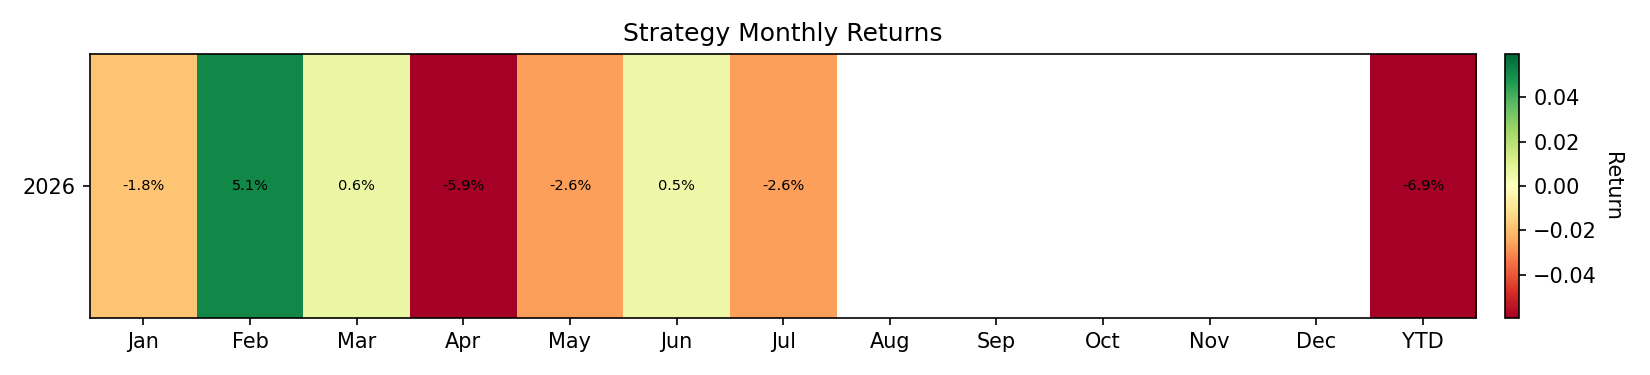
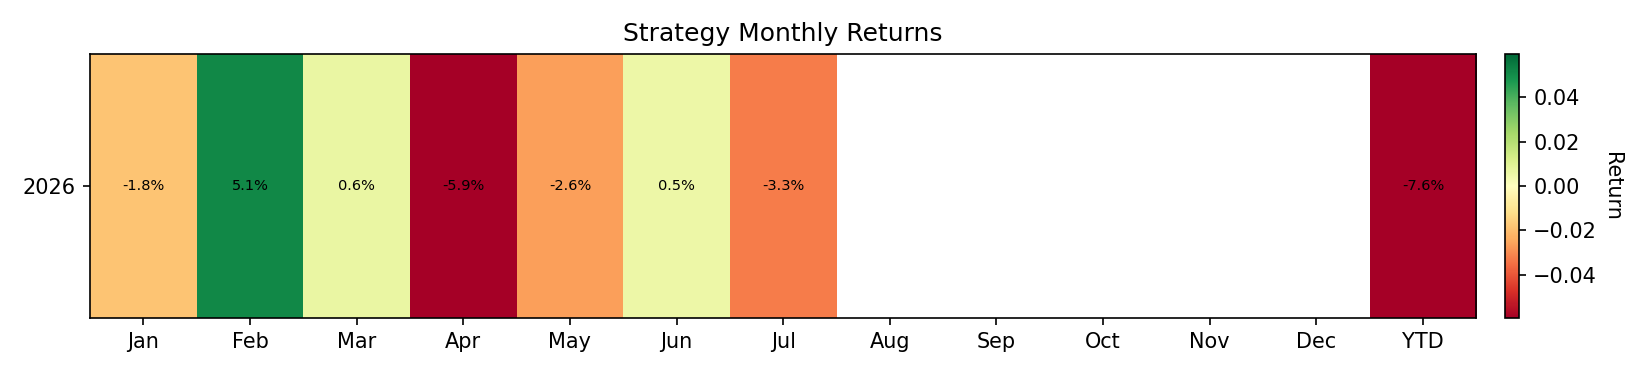
Update reports: 2026-07-25 00:05:05 UTC

Changed region(s): [[0.4327, 0.1467, 0.5255, 0.8507], [0.8345, 0.4693, 0.8655, 0.4987]]

diff --git a/README.md b/README.md
@@ -24,26 +24,26 @@ All results are live and reported net of transaction costs and slippage.
 <!-- METRICS_START -->
 | metric                       |        values |
 |:-----------------------------|--------------:|
-| Number of Observations       | 178           |
-| Mean Daily Return            |  -0.000368551 |
-| Daily Volatility             |   0.00848733  |
-| Mean Annualized Return       |  -0.134521    |
-| Annualized Volatility        |   0.16215     |
+| Number of Observations       | 179           |
+| Mean Daily Return            |  -0.000403123 |
+| Daily Volatility             |   0.00847609  |
+| Mean Annualized Return       |  -0.14714     |
+| Annualized Volatility        |   0.161935    |
 | Maximum Drawdown             |  -0.156146    |
-| Max Drawdown Duration (Days) | 149           |
-| Sharpe                       |  -0.829608    |
-| Sortino                      |  -1.13803     |
-| Calmar                       |  -0.861509    |
-| CAGR                         |  -0.137209    |
-| Skewness                     |   0.700333    |
-| Excess Kurtosis              |   8.87949     |
-| Win Rate                     |   0.47191     |
-| Profit Factor                |   0.870457    |
-| VaR 1%                       |  -0.0275569   |
+| Max Drawdown Duration (Days) | 150           |
+| Sharpe                       |  -0.908632    |
+| Sortino                      |  -1.25122     |
+| Calmar                       |  -0.942322    |
+| CAGR                         |  -0.148003    |
+| Skewness                     |   0.709293    |
+| Excess Kurtosis              |   8.88695     |
+| Win Rate                     |   0.469274    |
+| Profit Factor                |   0.859331    |
+| VaR 1%                       |  -0.0275272   |
 | CVaR 1%                      |  -0.030925    |
-| VaR 5%                       |  -0.0106986   |
+| VaR 5%                       |  -0.0106613   |
 | CVaR 5%                      |  -0.0208176   |
-| Correlation with BTC         |  -0.00381381  |
+| Correlation with BTC         |  -0.00441024  |
 <!-- METRICS_END -->
 
 ## Sharpe Statistics
@@ -55,14 +55,14 @@ All results are live and reported net of transaction costs and slippage.
 | metric                     |   values |
 |:---------------------------|---------:|
 | alpha                      |   0.05   |
-| t-statistic                |  -0.5793 |
-| p-value                    |   0.5631 |
-| Daily Sharpe Ratio         |  -0.0434 |
-| Annualized Sharpe Ratio    |  -0.8296 |
-| Sharpe Standard Error      |   1.4613 |
-| C.I. Lower Bound           |  -3.6937 |
-| C.I. Upper Bound           |   2.0345 |
-| Bootstrap C.I. Lower Bound |  -4.1651 |
-| Bootstrap C.I. Upper Bound |   2.8576 |
+| t-statistic                |  -0.6363 |
+| p-value                    |   0.5254 |
+| Daily Sharpe Ratio         |  -0.0476 |
+| Annualized Sharpe Ratio    |  -0.9086 |
+| Sharpe Standard Error      |   1.4603 |
+| C.I. Lower Bound           |  -3.7707 |
+| C.I. Upper Bound           |   1.9534 |
+| Bootstrap C.I. Lower Bound |  -4.2442 |
+| Bootstrap C.I. Upper Bound |   2.745  |
 <!-- SHARPE_END -->
 
